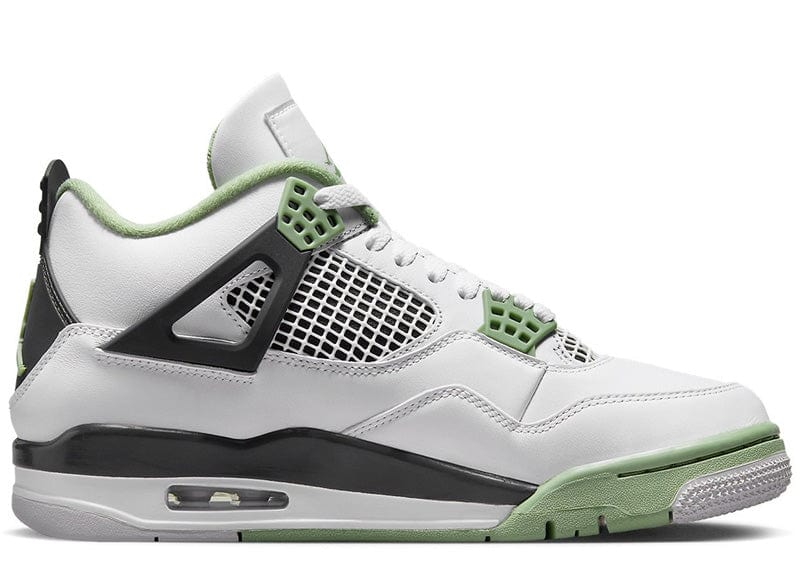
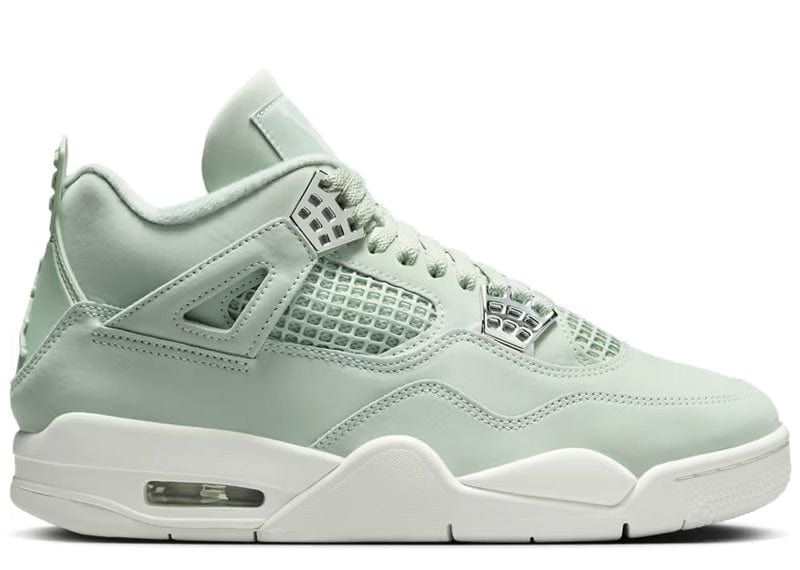
Add sale pricing, bump '85 Bred to R5500, fix Seafoam Sail images
- Sneakers show struck-through compare-at price (price + R1000 rounded to
  nearest R500) with red sale price and 'Save RX' badge in the modal
- Red SALE tag on sneaker cards, sale line added to the ticker
- AJ1 '85 Bred base price 4200 -> 5500
- Seafoam swapped to correct Seafoam Sail (W) photos

Claude-Session: https://claude.ai/code/session_018NjMznmUpzFZwrHQoKm7Be

diff --git a/js/app.js b/js/app.js
@@ -5,11 +5,25 @@ const fmtR = (n) => "R" + n.toLocaleString("en-ZA");
 
 const priceFor = (product, sizeEntry) => sizeEntry.price ?? product.basePrice;
 
-function priceRange(product) {
+// Sale display: sneakers show a struck-through "was" price (sale price + R1000,
+// rounded to the nearest R500) next to the actual price.
+const onSale = (product) => product.category === "sneakers";
+const compareAt = (price) => Math.round((price + 1000) / 500) * 500;
+
+function priceHTML(product, sizeEntry) {
+  if (sizeEntry) {
+    const price = priceFor(product, sizeEntry);
+    if (!onSale(product)) return fmtR(price);
+    const was = compareAt(price);
+    return `<span class="price-was">${fmtR(was)}</span><span class="price-sale">${fmtR(price)}</span><span class="price-save">Save ${fmtR(was - price)}</span>`;
+  }
   const prices = product.sizes.map((s) => priceFor(product, s));
   const min = Math.min(...prices);
   const max = Math.max(...prices);
-  return min === max ? fmtR(min) : `${fmtR(min)} – ${fmtR(max)}`;
+  const sale = min === max ? fmtR(min) : `${fmtR(min)} – ${fmtR(max)}`;
+  if (!onSale(product)) return sale;
+  const was = min === max ? fmtR(compareAt(min)) : `${fmtR(compareAt(min))} – ${fmtR(compareAt(max))}`;
+  return `<span class="price-was">${was}</span><span class="price-sale">${sale}</span>`;
 }
 
 /* ---------- State ---------- */
@@ -96,12 +110,15 @@ function renderGrid() {
       <div class="card-img">
         <img class="primary ${p.images[1] ? "has-alt" : ""}" src="${IMG_DIR}${p.images[0]}" alt="${p.brand} ${p.name}" loading="lazy" />
         ${p.images[1] ? `<img class="secondary" src="${IMG_DIR}${p.images[1]}" alt="" loading="lazy" />` : ""}
-        ${unitCount === 1 ? `<span class="card-tag">1 of 1</span>` : ""}
+        <div class="card-tags">
+          ${onSale(p) ? `<span class="card-tag tag-sale">Sale</span>` : ""}
+          ${unitCount === 1 ? `<span class="card-tag">1 of 1</span>` : ""}
+        </div>
       </div>
       <div class="card-info">
         <p class="card-brand">${p.brand}</p>
         <h3 class="card-name">${p.name}</h3>
-        <p class="card-price">${priceRange(p)}</p>
+        <p class="card-price">${priceHTML(p)}</p>
         <p class="card-sizes">${sizeList}</p>
       </div>`;
     card.onclick = () => openProduct(p);
@@ -115,7 +132,7 @@ function openProduct(p) {
   modalSize = null;
   document.getElementById("pmBrand").textContent = p.brand;
   document.getElementById("pmName").textContent = p.name;
-  document.getElementById("pmPrice").textContent = priceRange(p);
+  document.getElementById("pmPrice").innerHTML = priceHTML(p);
 
   const img = document.getElementById("pmImage");
   img.src = IMG_DIR + p.images[0];
@@ -158,7 +175,7 @@ function renderModalSizes() {
       modalSize = s.size;
       renderModalSizes();
       const entry = modalProduct.sizes.find((x) => x.size === s.size);
-      document.getElementById("pmPrice").textContent = fmtR(priceFor(modalProduct, entry));
+      document.getElementById("pmPrice").innerHTML = priceHTML(modalProduct, entry);
       updateAddBtn();
     };
     wrap.appendChild(b);

diff --git a/css/style.css b/css/style.css
@@ -8,6 +8,7 @@
   --grey-3: #a3a3a0;
   --grey-4: #565654;
   --accent: #0a0a0a;
+  --sale: #c8102e;
   --max-w: 1400px;
   --pad: clamp(16px, 4vw, 48px);
   --font-body: "Archivo", -apple-system, "Helvetica Neue", Arial, sans-serif;
@@ -274,10 +275,16 @@ button { font-family: inherit; cursor: pointer; }
   color: var(--grey-4);
   letter-spacing: 0.03em;
 }
-.card-tag {
+.card-tags {
   position: absolute;
   top: 12px;
   left: 12px;
+  display: flex;
+  flex-direction: column;
+  align-items: flex-start;
+  gap: 6px;
+}
+.card-tag {
   background: var(--black);
   color: var(--white);
   font-size: 10px;
@@ -285,6 +292,28 @@ button { font-family: inherit; cursor: pointer; }
   text-transform: uppercase;
   letter-spacing: 0.1em;
   padding: 4px 8px;
+}
+.card-tag.tag-sale { background: var(--sale); }
+
+/* Sale pricing */
+.price-was {
+  text-decoration: line-through;
+  color: var(--grey-3);
+  font-weight: 500;
+  margin-right: 8px;
+}
+.price-sale { color: var(--sale); }
+.price-save {
+  display: inline-block;
+  margin-left: 10px;
+  background: var(--sale);
+  color: var(--white);
+  font-size: 10px;
+  font-weight: 700;
+  text-transform: uppercase;
+  letter-spacing: 0.08em;
+  padding: 3px 8px;
+  vertical-align: middle;
 }
 
 .grid-empty {

diff --git a/index.html b/index.html
@@ -16,10 +16,12 @@
   <!-- Announcement bar -->
   <div class="ticker" aria-hidden="true">
     <div class="ticker-track">
+      <span>Sale on now — save up to R1,200 on every pair</span><span>•</span>
       <span>Nationwide shipping — PUDO &amp; PostNet</span><span>•</span>
       <span>100% authentic, always</span><span>•</span>
       <span>Bulk deals available — DM us</span><span>•</span>
       <span>Take the whole lot for R135k excl. shipping</span><span>•</span>
+      <span>Sale on now — save up to R1,200 on every pair</span><span>•</span>
       <span>Nationwide shipping — PUDO &amp; PostNet</span><span>•</span>
       <span>100% authentic, always</span><span>•</span>
       <span>Bulk deals available — DM us</span><span>•</span>

diff --git a/js/products.js b/js/products.js
@@ -73,7 +73,7 @@ const PRODUCTS = [
     id: "aj1-bred-85",
     brand: "Jordan",
     name: "Air Jordan 1 High OG '85 Bred",
-    basePrice: 4200,
+    basePrice: 5500,
     category: "sneakers",
     sizes: [
       { size: "UK8", qty: 1 },
